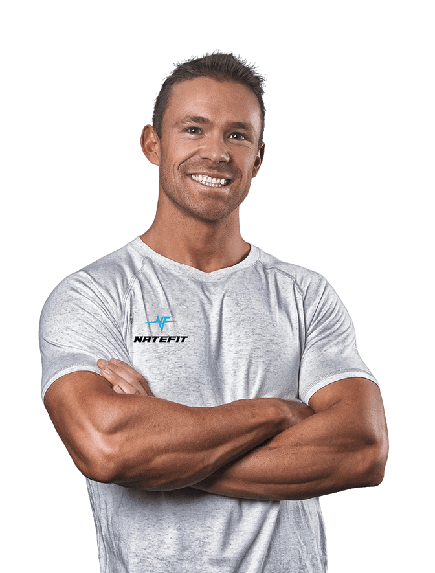
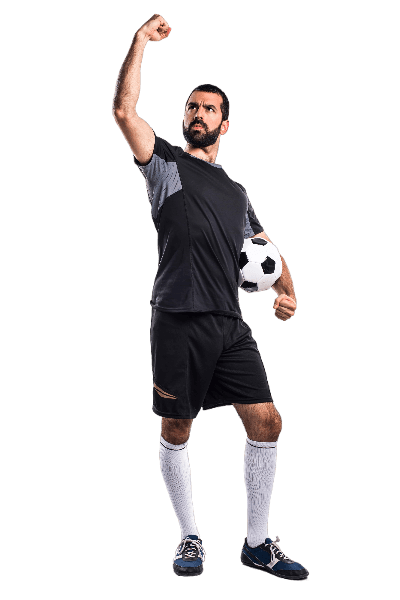
update

diff --git a/index.html b/index.html
@@ -3,7 +3,7 @@
 	<head>
 		<meta charset="UTF-8">
 		<meta name="viewport" content="width=device-width, initial-scale=1.0">
-		<title>Welcome To Your Football Coach</title>
+		<title>Welcome To Your Fitness Coach</title>
 		<meta name="description" content="Discover the future of Fitness with our AI-driven solutions. Elevate your Fitness experience today!" />
 		<meta http-equiv="X-UA-Compatible" content="ie=edge">
 		<!-- fav icon -->
@@ -60,7 +60,7 @@
 			<div class="container">
 				<!--Start navbar-->
 				<nav class="menu-navbar" id="main-nav">
-					<div class="header-logo"><a class="logo-link" href="#"><img class="logo-img light-logo" loading="lazy" src="assets/images/logo/logo-no-background-dark.png" alt="logo"/><img class="logo-img  dark-logo" loading="lazy" src="assets/images/logo/logo-no-background.png" alt="logo"/></a></div>
+					<div class="header-logo"><a class="logo-link" href="#"><img class="logo-img light-logo" loading="lazy" src="assets/images/logo/football-logo.png" alt="logo"/><img class="logo-img  dark-logo" loading="lazy" src="assets/images/logo/football-logo.png" alt="logo"/></a></div>
 					<div class="links menu-wrapper ">
 						<ul class="list-js links-list">
 							<li class="nav-item menu-item has-sub-menu"><a class="nav-link menu-link   active" href="#page-hero">home</a></li>
@@ -98,8 +98,8 @@
 						<div class="hero-text-area   ">
 							<div class="row">
 								<div class="col-12       ">
-									<div class="pre-title ">Welcome To Your Fitness Coach</div>
-									<h1 class="hero-title  ">Unleash the power of AI +  <span class="featured-text">Fitness 
+									<div class="pre-title ">Welcome To Your Football training</div>
+									<h1 class="hero-title  ">Unleash the power of AI +  <span class="featured-text">Football Training 
 										<svg xmlns="http://www.w3.org/2000/svg" viewBox="0 0 500 150" preserveAspectRatio="none">
 											<path d="M7.7,145.6C109,125,299.9,116.2,401,121.3c42.1,2.2,87.6,11.8,87.3,25.7"></path>
 										</svg>  </span><span class="design-element rounded-shape stripes"></span></h1>
@@ -136,7 +136,7 @@
 						</div>
 						<br>
 						<div class="col-10">
-							<h4 class="clr-main">
+							<h4 class="clr-main" style="color: rgb(255, 255, 255);">
 								Ask me anything
 							</h4>
 						</div>
@@ -168,7 +168,7 @@
 					<div class="content-area"><!-- <span class=" pre-title       wow fadeInUp " data-wow-delay=".2s">services</span> -->
 						<h2 class="title wow fadeInUp" data-wow-delay=".2s">services we offer</h2>
 						<p class="subtitle wow fadeInUp " data-wow-delay=".4s">
-							Unleash Your Ultimate Potential with AI-Powered Fitness: Personalized Workouts, Virtual Coaching, and Community Support All in One Place!
+							Unleash Your Ultimate Potential with AI-Powered Football Training: Personalized Workouts, Virtual Coaching, and Community Support All in One Place!
 						</p>
 					</div>
 					<div class=" cta-area wow fadeInUp" data-wow-delay=".6s"><a class="cta-btn btn-solid    ">see all services <i class="bi bi-arrow-right icon "></i></a></div>
@@ -179,9 +179,9 @@
 						<div class="box service-box  wow fadeInUp reveal-start" data-wow-offset="0" data-wow-delay=".1s">
 							<div class="service-icon"><i class="flaticon-web-development font-icon"></i></div><span class="service-num hollow-text">1    </span>
 							<div class="service-content">
-								<h3 class="service-title">Friendly Instructors</h3>
+								<h3 class="service-title">Automated Technique Assessment</h3>
 								<p class="service-text">
-									Get expert guidance and motivation from virtual workout instructors on our app, making every session effective and engaging.
+									Analyze dribbling, passing, and shooting techniques from user-uploaded videos. Provide detailed feedback on body posture, alignment, foot placement, ball control, etc.
 								</p>
 							</div><a class="read-more" href="#0">read more<i class="bi bi-arrow-right icon "> </i></a>
 						</div>
@@ -192,9 +192,9 @@
 						<div class="box service-box  wow fadeInUp reveal-start" data-wow-offset="0" data-wow-delay=".2s">
 							<div class="service-icon"><i class="flaticon-nanotechnology font-icon"></i></div><span class="service-num hollow-text">2    </span>
 							<div class="service-content">
-								<h3 class="service-title">Customized Meal Plans</h3>
+								<h3 class="service-title">Performance Metrics</h3>
 								<p class="service-text">
-									Experience personalized nutrition like never before with AI-crafted meal plans tailored to your unique tastes and dietary needs.
+									Track and measure key metrics like dribbling speed, passing accuracy, shot power, and ball possession. Present data in easy-to-understand graphs and charts to monitor progress over time.
 								</p>
 							</div><a class="read-more" href="#0">read more<i class="bi bi-arrow-right icon "> </i></a>
 						</div>
@@ -205,9 +205,9 @@
 						<div class="box service-box  wow fadeInUp reveal-start" data-wow-offset="0" data-wow-delay=".3s">
 							<div class="service-icon"><i class="flaticon-web-domain font-icon"></i></div><span class="service-num hollow-text">3    </span>
 							<div class="service-content">
-								<h3 class="service-title">Personalized Workouts</h3>
+								<h3 class="service-title">Personalized Tips & Drills</h3>
 								<p class="service-text">
-									Elevate your fitness routine with AI-generated workouts that adapt to your current fitness level, workout history, and personal goals.
+									Offer customized training plans and drills based on individual strengths and weaknesses identified by the AI.
 								</p>
 							</div><a class="read-more" href="#0">read more<i class="bi bi-arrow-right icon "> </i></a>
 						</div>
@@ -219,9 +219,9 @@
 							<div class="service-icon"><i class="flaticon-profile font-icon"></i></div>
 							<span class="service-num hollow-text">4</span>
 							<div class="service-content">
-								<h3 class="service-title">Real-time Health Monitoring</h3>
+								<h3 class="service-title">Interactive Simulations</h3>
 								<p class="service-text">
-									Stay on track with AI-enabled health monitoring, which tracks your heart rate, calories burned, and other vital metrics during workouts.
+									Create realistic virtual environments where users can practice dribbling against different defenders and speeds, or shooting in various match situations.
 								</p>
 							</div>
 							<a class="read-more" href="#0">read more<i class="bi bi-arrow-right icon "></i></a>
@@ -235,10 +235,8 @@
 							<div class="service-icon"><i class="flaticon-search font-icon"></i></div>
 							<span class="service-num hollow-text">5</span>
 							<div class="service-content">
-								<h3 class="service-title">AI-Crafted Smoothie Recipes</h3>
-								<p class="service-text">
-									Discover a range of delicious and nutritious smoothie recipes recommended by AI to fuel your workouts and boost recovery.
-								</p>
+								<h3 class="service-title">Augmented Reality Coaching</h3>
+								<p class="service-text">Use AR to overlay guidance and feedback in real-time during practice sessions, helping users visualize correct techniques and make adjustments instantly.</p>
 							</div>
 							<a class="read-more" href="#0">read more<i class="bi bi-arrow-right icon "></i></a>
 						</div>
@@ -251,9 +249,9 @@
 							<div class="service-icon"><i class="flaticon-strategy font-icon"></i></div>
 							<span class="service-num hollow-text">6</span>
 							<div class="service-content">
-								<h3 class="service-title">Mindful Yoga Sessions</h3>
+								<h3 class="service-title">Match Strategy & Analysis</h3>
 								<p class="service-text">
-									Embrace mental well-being with AI-guided yoga sessions that adapt to your skill level, helping you find balance in your fitness journey.
+									Analyze opponent data and provide insights into their strengths, weaknesses, and playing styles. Offer data-driven suggestions for match strategy and tactics.
 								</p>
 							</div>
 							<a class="read-more" href="#0">read more<i class="bi bi-arrow-right icon "></i></a>
@@ -285,18 +283,10 @@
 									</div>
 								</div>
 								<p class="about-text">
-									Welcome to your AI Fitness Coach, the forefront of fitness innovation with our cutting-edge AI-powered fitness app.
-									 Designed to revolutionize the way you approach your health goals, our app seamlessly integrates artificial intelligence
-									  into every aspect of your fitness journey. Imagine having a personal trainer at your fingertips 24/7.
-									   Our AI fitness app crafts personalized workout plans based on your fitness level, goals, and preferences.
-									    Whether you're into high-intensity interval training, yoga, or strength building, the app tailors routines just for you.
+									Welcome to Your AI Football Coach, the Future of Football Training! Our cutting-edge AI-powered app is designed to revolutionize how you improve your game, bringing the expertise of a world-class coach right to your fingertips. Imagine having a personalized training program available 24/7, tailored to your specific needs and goals. Our AI Football Coach app analyzes your performance, identifies your strengths and weaknesses, and creates a customized plan to help you reach your full potential.
 								</p>
 								<p class="about-text">
-									But it doesn't stop there – as you work out, the AI analyzes your form in real time, providing instant feedback to ensure your
-									 movements are precise and effective, reducing the risk of injury. Say goodbye to generic fitness regimens and hello to a dynamic
-									  and responsive training experience. With our AI fitness app, you're not just exercising; you're engaging with an intelligent system
-									   that evolves as you do, adapting your routines to your progress. Elevate your fitness game and unlock your full potential with the
-									    power of AI guiding you every step of the way.
+									But it doesn't stop there! As you practice, the AI analyzes your technique in real-time, providing instant feedback on your dribbling, passing, and shooting. This ensures your movements are precise and effective, minimizing the risk of injury and maximizing your performance. Say goodbye to generic training routines and hello to a dynamic and responsive coaching experience. With our AI Football Coach app, you're not just practicing; you're engaging with an intelligent system that evolves with you, adapting your training plan based on your progress and performance. Elevate your football game and unlock your full potential with the power of AI guiding you every step of the way. Become the footballer you've always dreamed of being with the AI Football Coach!
 								</p>
 								<div class="cta-area"><a class=" btn-solid reveal-start" href="#0">Get in touch</a>
 									<!-- <div class="signature ">
@@ -306,9 +296,9 @@
 								</div>
 							</div>
 						</div>
-						<div class="col-12 col-lg-6 d-flex align-items-center order-0 order-lg-1 about-col  wow fadeInUp" data-wow-delay="0.2s">
+						<div class="col-12 col-lg-6 d-flex align-items-center order-0 order-lg-1 about-col  wow fadeInUp" data-wow-delay="0.2s"  style="padding-left: 12%; transform: scale(1.2);">
 							<div class="img-area" data-tilt>
-								<div class="image"><img class="about-img img-fluid " loading="lazy" src="assets/images/about/fitness.png" alt="Our vision"></div>
+								<div class="image"><img class="about-img img-fluid " loading="lazy" src="assets/images/about/football-player.png" alt="Our vision"></div>
 							</div>
 						</div>
 					</div>
@@ -329,27 +319,27 @@
 					  	<div class="row">
 							<div class="col-md-4 text-center">
 								<div class="instruction-inner">
-									<img src="assets/images/our-team/fitness-2.png" class="img-fluid red-left" alt="instructor"/>
+									<img src="assets/images/our-team/player1.png" style="transform: scale(1.3);" class="img-fluid red-left" alt="instructor"/>
 								</div>
-								<div class="instructor-name">
+								<div class="instructor-name" style="margin-top: 15%;">
 									<h3 class="heading-font">John Brooks</h3>
 									<p>Fitness Instructor</p>
 								</div>
 							</div>
 							<div class="col-md-4 text-center">
 								<div class="instruction-inner">
-									<img src="assets/images/our-team/fitness-4.png" class="img-fluid" alt="instructor"/>
+									<img src="assets/images/our-team/player2.png" style="transform: scale(1.3);" class="img-fluid" alt="instructor"/>
 								</div>
-								<div class="inistructor-name">
+								<div class="inistructor-name" style="margin-top: 15%;">
 									<h3 class="heading-font">James West</h3>
 									<p>Fitness Instructor</p>
 								</div>
 							</div>
 							<div class="col-md-4 text-center">
 								<div class="instruction-inner">
-									<img src="assets/images/our-team/fitness-3.png" class="img-fluid red-right" alt="instructor"/>
+									<img src="assets/images/our-team/player3.png" style="transform: scale(1.4);" class="img-fluid red-right" alt="instructor"/>
 								</div>
-								<div class="instructor-name">
+								<div class="instructor-name" style="margin-top: 15%;">
 									<h3 class="heading-font">Jack Williams</h3>
 									<p>Fitness Instructor</p>
 								</div>
@@ -386,9 +376,9 @@
 										<div class="col-12 ">
 											<div class="info-item"><span class="info-number ">01.</span>
 												<div class="info-content">
-													<h5 class="info-title">Tailored Wellness Solutions </h5>
+													<h5 class="info-title">Personalized AI Coaching</h5>
 													<p class="info-text">
-														We offer personalized fitness solutions that adapt to your unique goals, preferences, and needs. Our AI-generated workouts and meal plans ensure that every aspect of your journey is customized for your success.
+														No more cookie-cutter drills! Our AI analyzes YOUR technique, creating a custom plan for YOUR strengths and weaknesses. It's like having a personal coach, but available 24/7.
 													</p>
 												</div>
 											</div>
@@ -396,9 +386,9 @@
 										<div class="col-12 ">
 											<div class="info-item"><span class="info-number ">02.</span>
 												<div class="info-content">
-													<h5 class="info-title">Expert Guidance at Your Fingertips</h5>
+													<h5 class="info-title">Train Anytime, Anywhere</h5>
 													<p class="info-text">
-														With access to certified online instructors, you're never alone on your fitness journey. Our platform provides direct guidance and support, making sure you're performing exercises correctly and efficiently.
+														No need to adjust your schedule for rigid coaching times. Our app fits YOUR life, providing guidance whenever and wherever you practice.
 													</p>
 												</div>
 											</div>
@@ -406,16 +396,20 @@
 										<div class="col-12 ">
 											<div class="info-item"><span class="info-number ">03.</span>
 												<div class="info-content">
-													<h5 class="info-title">Empowerment through Technology</h5>
-													<p class="info-text">We empower our users through cutting-edge AI technology. By combining the power of artificial intelligence with real-time tracking and feedback, we give you the tools you need to take control of your fitness and live a healthier life.</p>
+													<h5 class="info-title">Stay Ahead of the Game</h5>
+													<p class="info-text">
+														Gain strategic insights into your opponents. Our AI helps you analyze their strengths and weaknesses, giving you a tactical advantage.
+													</p>
 												</div>
 											</div>
 										</div>
 										<div class="col-12 ">
 											<div class="info-item"><span class="info-number ">04.</span>
 												<div class="info-content">
-												<h5 class="info-title">Holistic Approach to Health</h5>
-												<p class="info-text">Our app goes beyond just workouts. We provide a holistic approach to health, integrating both physical activity and nutrition. This comprehensive strategy helps you achieve well-rounded and sustainable results.</p>
+												<h5 class="info-title">Maximize Your Potential</h5>
+												<p class="info-text">
+													Unlock the cricketer you've always dreamed of being. Our AI identifies areas for improvement you might miss, giving you a competitive edge.
+												</p>
 												</div>
 											</div>
 											</div>
@@ -544,7 +538,7 @@
 					<div class="col-12  col-md-6 col-xl-3  mx-auto price-plan ">
 						<div class="plan    wow fadeInUp  " data-wow-delay=".1s ">
 							<div class="plan-head"><i class="flaticon-nft-1 plan-icon"></i>
-								<h4 class="plane-name">AI Workout Plan</h4>
+								<h4 class="plane-name">AI Training Plan</h4>
 								<div class="plan-price">
 									<h3 class="price">0<sup class="currency-symbol">$</sup></h3><span class="per">Monthly</span>
 								</div>
@@ -552,7 +546,7 @@
 
 							<div class="plan-details">
 								<ul class="plan-list">
-									<li class="plan-feat "> <span class="feat-text">Unlock a tailored fitness journey with AI-generated workouts to achieve your goals. </span></li>
+									<li class="plan-feat "> <span class="feat-text">Unlock a tailored football training journey with AI-generated training videos to achieve your goals. </span></li>
 								</ul>
 							</div>
 							<div class="plan-cta"><a class="cta-btn btn-outline " href="#0">select plan  </a></div>
@@ -562,7 +556,7 @@
 					<div class="col-12  col-md-6 col-xl-3  mx-auto price-plan ">
 						<div class="plan    wow fadeInUp  " data-wow-delay=".3s ">
 							<div class="plan-head"><i class="flaticon-virtual-reality plan-icon"></i>
-								<h4 class="plane-name">AI Fitness Bundle</h4>
+								<h4 class="plane-name">AI Football Training Bundle</h4>
 								<div class="plan-price">
 									<h3 class="price">25<sup class="currency-symbol">$</sup></h3><span class="per">Monthly</span>
 								</div>
@@ -570,7 +564,7 @@
 
 							<div class="plan-details">
 								<ul class="plan-list">
-									<li class="plan-feat "> <span class="feat-text">Elevate your wellness game with AI-generated workouts and meal plans that work in harmony for a healthier you.</span></li>
+									<li class="plan-feat "> <span class="feat-text">Receive AI-generated workout routines tailored to your specific needs and goals, whether you're a batsman, bowler, or all-rounder.</span></li>
 								</ul>
 							</div>
 							<div class="plan-cta"><a class="cta-btn btn-outline " href="#0">select plan  </a></div>
@@ -588,7 +582,7 @@
 
 							<div class="plan-details">
 								<ul class="plan-list">
-									<li class="plan-feat "> <span class="feat-text">Experience the ultimate transformation with AI-generated workouts, personalized meal plans, and direct access to online instructors for expert guidance.</span></li>
+									<li class="plan-feat "> <span class="feat-text">Experience a revolutionary approach to football training with personalized plans, expert guidance, and cutting-edge AI.</span></li>
 								</ul>
 							</div>
 							<div class="plan-cta"><a class="cta-btn btn-outline " href="#0">select plan  </a></div>
@@ -619,7 +613,7 @@
 											<div class="customer-testimonial">
 												<div class="content">
 													<p class="testimonial-text ">
-														I've never been so motivated to work out before I started using this app. The AI-generated workouts keep things exciting and challenging, adapting to my progress. It's like having a personal trainer in my pocket!
+														Having online coaches to complement the AI-generated football training and meal plans is a game-changer! Their expert guidance and motivation make me feel supported every step of the way, and I'm noticing significant improvements in my skills. This app truly offers a comprehensive training experience.
 													</p>
 												</div>
 											</div>
@@ -639,7 +633,7 @@
 											<div class="customer-testimonial">
 												<div class="content">
 													<p class="testimonial-text ">
-														The addition of online instructors to the AI-generated workouts and meal plans takes this app to a whole new level. The guidance and encouragement are top-notch, making me feel supported every step of the way.
+														I'm amazed by how well this app caters to my dietary needs! The AI-generated meal plans perfectly align with my football training program. It's like having a personal nutritionist and coach rolled into one. I'm experiencing significant improvements in my performance and fitness, and I couldn't be more thrilled with the results!
 													</p>
 												</div>
 											</div>
@@ -659,7 +653,7 @@
 											<div class="customer-testimonial">
 												<div class="content">
 													<p class="testimonial-text ">
-														I'm amazed at how accurate the AI-generated meal plans are for my dietary preferences. Coupled with the workouts, it's a complete health package. I've seen tangible results and couldn't be happier with this app.
+														I've never been so excited to train! This app's AI-generated football workouts are a game-changer. Each session is dynamic, challenging, and adapts as I improve. It's like having a personal coach in my pocket, motivating me to become a better football player!
 													</p>
 												</div>
 											</div>
@@ -710,12 +704,12 @@
 								<div class="card-header " id="heading-1">
 									<h5 class="mb-0 faq-title">
 										<button class="btn btn-link  faq-btn  collapsed" data-bs-toggle="collapse" 
-											data-bs-target="#collapse-1" aria-expanded="true" aria-controls="collapse-1">How does the AI-generated workout feature work?</button>
+											data-bs-target="#collapse-1" aria-expanded="true" aria-controls="collapse-1">How does the AI-generated Football Training feature work?</button>
 									</h5>
 								</div>
 								<div class="collapse " id="collapse-1" aria-labelledby="collapse-1" data-bs-parent="#accordion">
 									<div class="card-body">
-										<p class="faq-answer">Our AI-generated workout feature creates personalized exercise routines based on your fitness goals, experience level, and preferences. It's like having a virtual personal trainer that tailors each session to you.</p>
+										<p class="faq-answer">Our AI-powered football training program designs personalized workout routines based on your football goals, skill level, and preferences. It's like having a dedicated football coach with you at all times, tailoring each session to maximize your performance on the pitch.</p>
 									</div>
 								</div>
 							</div>
@@ -723,12 +717,14 @@
 								<div class="card-header " id="heading-2">
 									<h5 class="mb-0 faq-title">
 										<button class="btn btn-link  faq-btn  collapsed " 
-											data-bs-toggle="collapse" data-bs-target="#collapse-2" aria-expanded="true" aria-controls="collapse-2">How frequently will the AI adjust my workout plan based on my progress?</button>
+											data-bs-toggle="collapse" data-bs-target="#collapse-2" aria-expanded="true" aria-controls="collapse-2">How frequently will the AI adjust my football training plan based on my progress?</button>
 									</h5>
 								</div>
 								<div class="collapse " id="collapse-2" aria-labelledby="collapse-2" data-bs-parent="#accordion">
 									<div class="card-body">
-										<p class="faq-answer">The AI adjusts your workout plan in real time, analyzing your progress and adapting accordingly. This ensures that you're consistently challenged and making strides toward your goals.</p>
+										<p class="faq-answer">
+											The AI in our app analyzes your football training progress in real-time, adjusting your workout plan to ensure you're always challenged and improving. This dynamic approach keeps your training optimized for continuous growth and helps you reach your football goals faster.
+										</p>
 									</div>
 								</div>
 							</div>
@@ -736,12 +732,14 @@
 								<div class="card-header " id="heading-3">
 									<h5 class="mb-0 faq-title">
 										<button class="btn btn-link  faq-btn  collapsed " data-bs-toggle="collapse" 
-											data-bs-target="#collapse-3" aria-expanded="true" aria-controls="collapse-3">Is the app suitable for beginners or aimed at experienced fitness enthusiasts?</button>
+											data-bs-target="#collapse-3" aria-expanded="true" aria-controls="collapse-3">Is the app suitable for beginners or aimed at experienced Football Training enthusiasts?</button>
 									</h5>
 								</div>
 								<div class="collapse " id="collapse-3" aria-labelledby="collapse-3" data-bs-parent="#accordion">
 									<div class="card-body">
-										<p class="faq-answer">Our app caters to all levels of fitness. Whether you're new to working out or a seasoned pro, you'll find workouts and features that align with your needs and goals.</p>
+										<p class="faq-answer">
+											Our football training app is designed for everyone, from beginners to elite players. Whether you're starting your journey or refining your skills for competition, you'll find AI-powered workouts and personalized plans tailored to your level. With interactive drills and real-time feedback, our app keeps you motivated and helps you progress towards your goals.
+										</p>
 									</div>
 								</div>
 							</div>
@@ -749,12 +747,16 @@
 								<div class="card-header " id="heading-4">
 									<h5 class="mb-0 faq-title">
 										<button class="btn btn-link  faq-btn  collapsed " data-bs-toggle="collapse" 
-											data-bs-target="#collapse-4" aria-expanded="true" aria-controls="collapse-4">How does the app ensure my privacy and data security?</button>
+											data-bs-target="#collapse-4" aria-expanded="true" aria-controls="collapse-4">
+											How does the app ensure my privacy and data security?
+										</button>
 									</h5>
 								</div>
 								<div class="collapse " id="collapse-4" aria-labelledby="collapse-4" data-bs-parent="#accordion">
 									<div class="card-body">
-										<p class="faq-answer">We prioritize your privacy and data security. Our app adheres to strict data protection measures, and your personal information is encrypted and handled with the utmost care.</p>
+										<p class="faq-answer">
+											We prioritize your privacy and data security. Our app adheres to strict data protection measures, and your personal information is encrypted and handled with the utmost care.
+										</p>
 									</div>
 								</div>
 							</div>
@@ -857,7 +859,7 @@
 					<div class="col-12 col-md-8 col-lg-4  footer-col ">
 						<div class="footer-col-content-wrapper">        
 							<p class="footer-text-about-us">
-								Experience the future of fitness with our AI-powered app, your ultimate companion on your wellness journey. Tailored workouts, and personalized coaching and meal plans come together to elevate your fitness routine. Unleash the potential of artificial intelligence to unlock your best self, anytime and anywhere.
+								Embrace the future of football with our AI-powered app, your ultimate training partner. Enjoy customized plans, personalized coaching, and expert analysis to elevate your game. Unlock your full potential and achieve your footballing best, anytime and anywhere.
 							</p>
 						</div>
 						<div class="form-area ">
